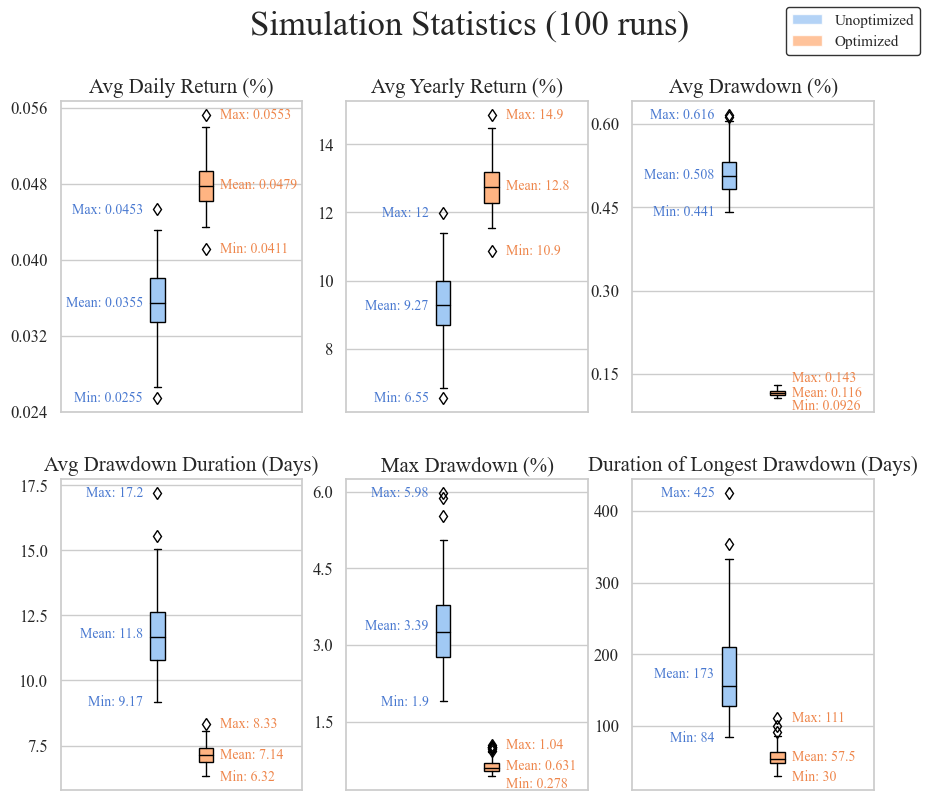
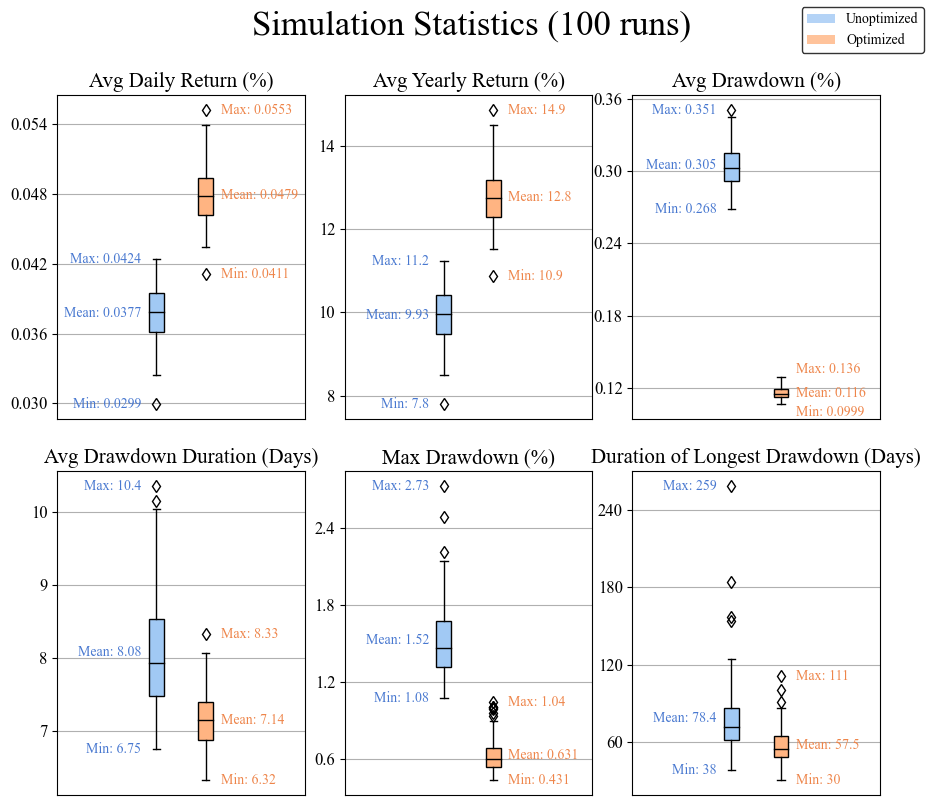
adding all remaining text

diff --git a/_posts/2023-09-13-Stock-Trading-Optimization.md b/_posts/2023-09-13-Stock-Trading-Optimization.md
@@ -1507,8 +1507,11 @@ plt.show()
 The results of the converged optimization are above. Please excuse the color choices and text sizing, I'm just using the built in PyGAD plotting functions. We can see that the GA has more or less converged with an optimal fitness score of 0.6. The genes are ordered the same as the parameters: 
 
 Gene 0 -> x_percent_loss
+
 Gene 1 -> y_percent_gain
+
 Gene 2 -> be_threshold
+
 Gene 3 -> tslp
 
 A few interesting things jump out.
@@ -1626,3 +1629,195 @@ plt.show()
 
 ![OpVsUnopstats](../img/posts/Images_LongShortPost/OpVsUnopstats.png)
 
+
+The above plot compares the performance across 100 random runs using our old and newly opimized paraterms. Looking at this, we can confidently say that the optimzation with the GA was successful! **The average yearly return increased by 2.5%** (~10% to ~12.5%) compared to our unoptimized values that we started with. This gives an alpha of about 2.5% compared to the benchmark of 10% annually. The average maximum drawdown and average longest drawdown also decreased significantly. In this case if we use the standard S&P 500 as a benchmark, this algorithm is blowing it out of the water. The advantage of using both long and short positions means that we are much more resistant steep declines due to recessions, because we remain profitable as long a the price action does not become stagnant.
+
+Before we wrap up, it would be helpful to try to understand *why* these more extreme parameters that the GA found give us more favorable results. Let's look back at our dataset and see if we can learn the same lessons the GA did.
+
+```
+def calculate_day_results(report, x_percent_loss, y_percent_gain):
+    """ Calculate the number of loosing, breakeven, and winning days as well as the return:risk ratio"""
+    
+    balance = report["Balance"]
+
+    day_results = []
+    returns = []
+    for key, day in enumerate(balance):
+        if key == 0:
+            continue
+        else:
+            ppc = (day - balance[key-1]) / balance[key-1]
+            if ppc > y_percent_gain:
+                day_results.append(3) # Take Profit Hit
+            
+            if round(day, 6) > round(balance[key-1], 6):
+                day_results.append(2) 
+            elif round(day, 6) == round(balance[key-1], 6):
+                day_results.append(1)
+            else:
+                day_results.append(0)
+            returns.append(ppc)
+
+    # Count the occurrences of each number
+    count_0 = day_results.count(0)
+    count_1 = day_results.count(1)
+    count_2 = day_results.count(2)
+    count_3 = day_results.count(3)
+
+    avg_rr = round(np.mean(np.asarray(returns)) / x_percent_loss * -1, 3)
+
+    return count_0, count_1, count_2, count_3, avg_rr
+
+random_seed = 5
+day_num = len(market_by_days)
+starting_balance = 2000
+
+x_percent_loss = -0.2 / 100  # x percent loss threshold
+y_percent_gain = 0.5 / 100  # y percent gain threshold
+be_threshold = 0.3 / 100 # breakeven threshold
+tslp = 0.2 / 100 # trailing stop loss percentage
+
+report = my_algorithm(random_seed, day_num, starting_balance, x_percent_loss, y_percent_gain, be_threshold, tslp)
+count_0, count_1, count_2, count_3, top_avg_rr = calculate_day_results(report, x_percent_loss, y_percent_gain)
+
+values_top = [round(count_0 / day_num, 6), 
+              round(count_1 / day_num, 6), 
+              round(count_2 / day_num, 6),
+              round(count_3 / day_num, 6)]
+
+
+x_percent_loss = converged_solution[0] / 100  # x percent loss threshold
+y_percent_gain = 100 * converged_solution[1]  / 100  # y percent gain threshold
+be_threshold = converged_solution[2]  / 100 # breakeven threshold
+tslp = converged_solution[3] / 100 # trailing stop loss percentage
+
+report = my_algorithm(random_seed, day_num, starting_balance, x_percent_loss, y_percent_gain, be_threshold, tslp)
+count_0, count_1, count_2, count_3, bot_avg_rr = calculate_day_results(report, x_percent_loss, y_percent_gain)
+
+values_bot = [round(count_0 / day_num, 6), 
+              round(count_1 / day_num, 6), 
+              round(count_2 / day_num, 6),
+              round(count_3 / day_num, 6)]
+
+```
+
+<br>
+
+```
+fig, axs = plt.subplots(2, 1, figsize=(5, 8), sharex=True)
+
+red_pastel = sns.color_palette("pastel")[3]
+orange_pastel = sns.color_palette("pastel")[1]
+green_pastel = sns.color_palette("pastel")[2]
+new_pastel = sns.color_palette("pastel")[4]
+palette = [red_pastel, orange_pastel, green_pastel, new_pastel]
+
+categories = ['Losing\nDays', 'Break-even\nDays', 'Winning\nDays', 'Take-Profit\nHit Days']
+
+
+axs[0].bar(categories, values_top, color = palette)
+axs[1].bar(categories, values_bot, color = palette)
+
+for i, value in enumerate(values_top):
+    axs[0].text(i, value, "{:.3f}".format(value), ha='center', va='bottom')
+for i, value in enumerate(values_bot):
+    axs[1].text(i, value, "{:.3f}".format(value), ha='center', va='bottom')
+
+axs[0].set_title('Unoptimized Parameters')
+axs[1].set_title('Optimized Parameters')
+
+axs[0].text(0.96, 0.9, f'(Avg. Return %) / Risk % = {top_avg_rr}', transform=axs[0].transAxes, fontsize=12, ha='right',
+            bbox={'facecolor': 'white', 'edgecolor': 'black', 'boxstyle': 'round'})
+axs[1].text(0.96, 0.9, f'(Avg. Return %) / Risk % = {bot_avg_rr}', transform=axs[1].transAxes, fontsize=12, ha='right',
+            bbox={'facecolor': 'white', 'edgecolor': 'black', 'boxstyle': 'round'})
+
+axs[1].set_yticks([0, 0.2, 0.4, 0.6, 0.8])
+
+
+xtick_positions = range(len(categories))
+xtick_labels = categories
+
+for ax in axs:
+    ax.set_xticks(xtick_positions)
+    ax.set_xticklabels(xtick_labels, ha='center')
+    ax.set_ylabel('Percentage', fontsize=20)
+    ax.set_ylim(0, 1.0)
+
+plt.subplots_adjust(hspace=0.2)
+plt.show()
+```
+
+![OpVsUnopstats](../img/posts/Images_LongShortPost/OpVsUnopstats.png)
+
+```
+# Initialize counters
+max_opening_price_count = 0
+min_opening_price_count = 0
+
+returns = []
+
+# Iterate through the list of dataframes
+for df in market_by_days:
+    # Get the opening and closing price for each day
+    opening_price = df.iloc[0]['average']
+    closing_price = df.iloc[-1]['average']
+    
+    # Find the maximum and minimum values for the day
+    max_average = df['average'].max()
+    min_average = df['average'].min()
+    
+    # Check if the opening price is the max or min for the day
+    if opening_price == max_average:
+        max_opening_price_count += 1
+        ppc = np.abs((closing_price - opening_price) / opening_price)
+        returns.append(ppc * 100)
+    elif opening_price == min_average:
+        min_opening_price_count += 1
+        ppc = np.abs((closing_price - opening_price) / opening_price)
+        returns.append(ppc * 100)
+
+avg_ppc = np.asarray(returns).mean()
+
+print("Days where opening price is the maximum for the day:", round(max_opening_price_count, 5))
+print("Days where opening price is the minimum for the day:", round(min_opening_price_count, 5))
+print("Percentage of days where opening price is the maximum for the day:", round(max_opening_price_count / len(market_by_days) * 100, 5))
+print("Percentage of days where opening price is the minimum for the day:", round(min_opening_price_count / len(market_by_days) * 100, 5))
+print("Avg PPC of days where opening price is a min or max for the day", round(avg_ppc, 5))
+```
+    Days where opening price is the maximum for the day: 180
+    Days where opening price is the minimum for the day: 249
+    Percentage of days where opening price is the maximum for the day: 5.4678
+    Percentage of days where opening price is the minimum for the day: 7.56379
+    Avg PPC of days where opening price is a min or max for the day 0.77103
+
+There is a classic saying, "time in the market beats timing the market". What this means is that trying to guess a high or low is often worse than just holding an asset and riding the waves. This is because (a) most people have no idea where a high or low is going to be, and (b) missing the big jump days means that you may have missed out on the best returns of the year. 
+
+What the GA has discovered is something I probably should of myself during the data mining stage, which is that the days where the opening price is the high or low of the day are relatively rare (only 13% of all trading days in our dataset) but have an average return of 0.77%. If we had allowed the GA to continue for another 20 generations, it would probably have arrived at an even smaller initial stop loss. The theoretical limit here is a trading algorithm which takes the tiniest possible loss most days, at the cost of having some skin in the game such that on those 13% of days when the opening is a daily high or low it is able to take advantage of that swing. In essence, the take-profit, break-even threshold, and trailing stop loss don't matter anymore, it all comes down to the initial stop loss. In many ways it is a much simpler trading algorithm this way, and it takes full advantage of the underlying statistics using a strategy with incredibly small losses and large but infrequent gains. 
+
+## Section 5: Conclusion
+
+We used data mining to identify a viable trading strategy, implemented it, and then optimized the parameters of our strategy using a genetic algorithm. It turns out that our strategy was more complicated than necessary, and the optimal approach revealed by the GA was simply to take losses as quickly as possible and let winning trades run as long as possible. In retrospect, this follows the advice that is common in day trading forums "cut your losses quickly and let your winners run". It's possible that a more volatile asset might benefit from the added safety rails that the our trading algorithm has, but for the S&P 500 they seem to be more of a hinderance than a benefit. All that being said, the simple approach taking both a long and short position at the start of every day, setting both with a very tight stop loss, and selling everything at the end of the day results in a respectable amount of alpha with minimal drawdowns. 
+
+### Caveats and Future Directions
+
+This little project may not seem like much, but it was actually very fun, and it took quite a bit of time. I spent most of it learning about genetic algorithms and tweaking my own to improve its efficiency and convergence rate. This was also my first time dipping my toe into the world of algorithmic trading (even though nothing actually got implemented in the real world) and I admit that I was thoroughly humbled by just how deep this field is. Now that I'm at the end of this project, if I was to ever do a 2.0 version of it, there are so many more things I would want to consider. 
+
+#### Slippage
+Every algorithm needs to have some way of accounting for slippage, which is the difference between the intended execution price and the actual execution price. This can be brought on by order execution delays, lack of liquidity, and super high volatility. The last one especially matters for us given that we depend a lot on volatility (or at least the safety rails on our algorithm do). As of right now, there is no slippage included in our model and every trade is expected to be executed immediately at the stop loss value. This is probably why the GA ended up having such a small stop loss value, because it allowed for the most extreme version of minimizing drawdown. In reality, even a stop loss of -0.01 % is not always viable. This also leads to the next point.
+
+#### Order Book
+A more realistic simulation would be to actually use an order book which controls how many buy or sell orders are active at any given time. This would help with simulating slippage and would also help avoid the GA optimizing for incredibly tiny stop loss values because they would never get filled.
+
+#### Tick Sizes
+Stocks do not trade out to the 6th decimal place. They tend to have a set precision that they go to, which for most is $0.01. Again, this also ties back to slippage, but also complicates the phase space of our algorithm. The parameters, which are currently all done in terms of percentages, would need to be converted to dollar amounts with penny precision. Arguably this could be as simple as rounding, but this means that slightly different input parameters will lead to identical outputs, and this can have adverse effects on optimization algorithms.
+
+#### Minute Averages
+Using averages was a convenient but pretty rough approximation of true market conditions. It doesn't account for high volume swings in one direction or another which may cause a position to stop out. The way to address this would either be to encode the range of values more explicitly or trade on smaller timeframes. The latter option would require getting more serious about sourcing our historical data and would also dramatically increase the amount of time the simulation takes to run. If I were to do this project again, I would need to do some more research about how other algorithmic trading strategies take into account entire candles.
+
+#### Other Trading Timeframes
+So far, we've only exploited the opening of the trading day. The PPC plot on 30 minute and 1 hour timeframes that we made near the beginning showed that there were pretty strong market swings near the end of the day as well (this is not new information, it's just nice to be able to see it myself). A more sophisticated algorithm might be able to take advantage both of the open and the last 1 hour by using the money from the stopped out position to open up another long-short pair at the 15:00:00 mark. This extra complexity may also lead to a more interesting optimization result.
+
+#### Higher Volatility Tickers
+We have focused exclusively on the S&P 500 for the time being, which is all well and good, but a more volatile asset such as VIX may be able to provide even higher returns. I suspect that the plain old S&P 500 may not really have the necessary daily volatility for this algorithm to cut its teeth on.
+
+That's all I've got! Thanks for reading, and if you have any feedback feel free to reach out to me through the CONTACT tab on the top ribbon.
